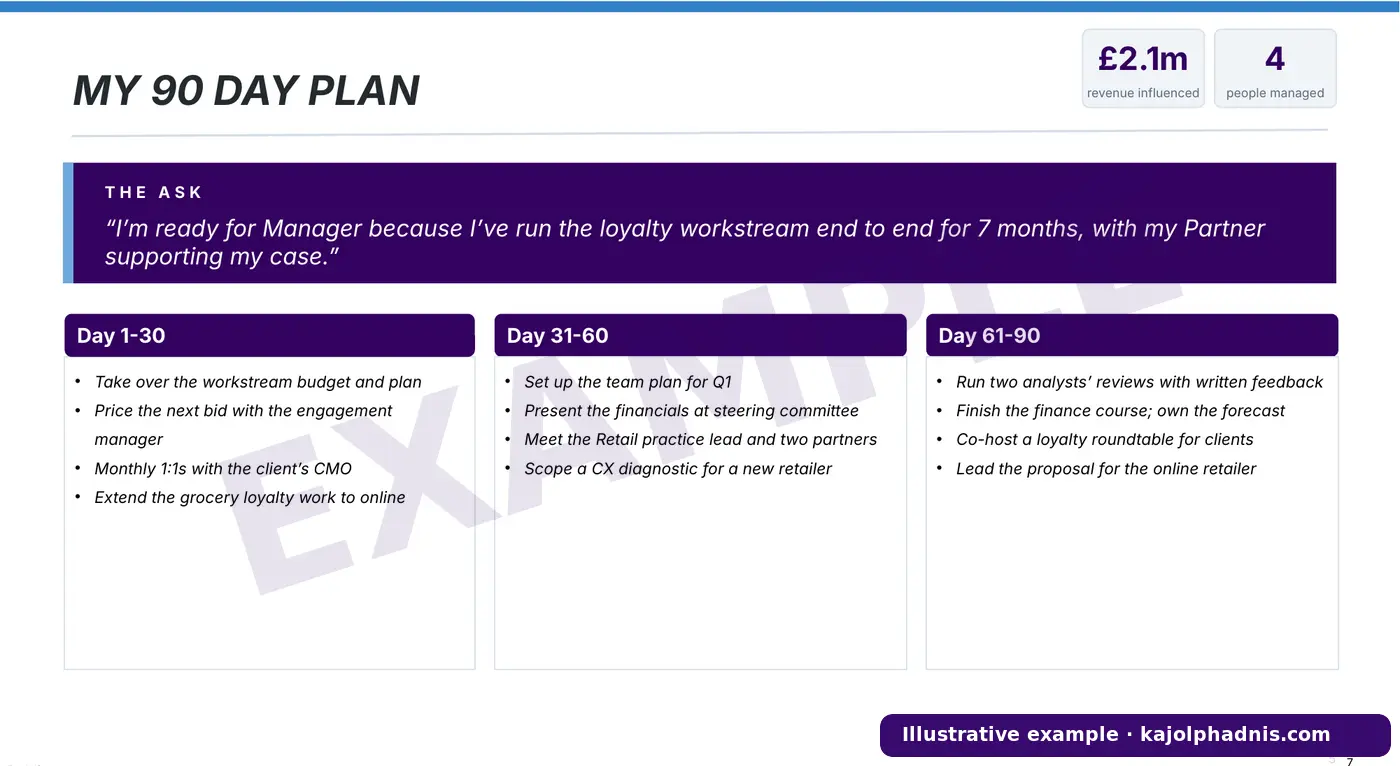
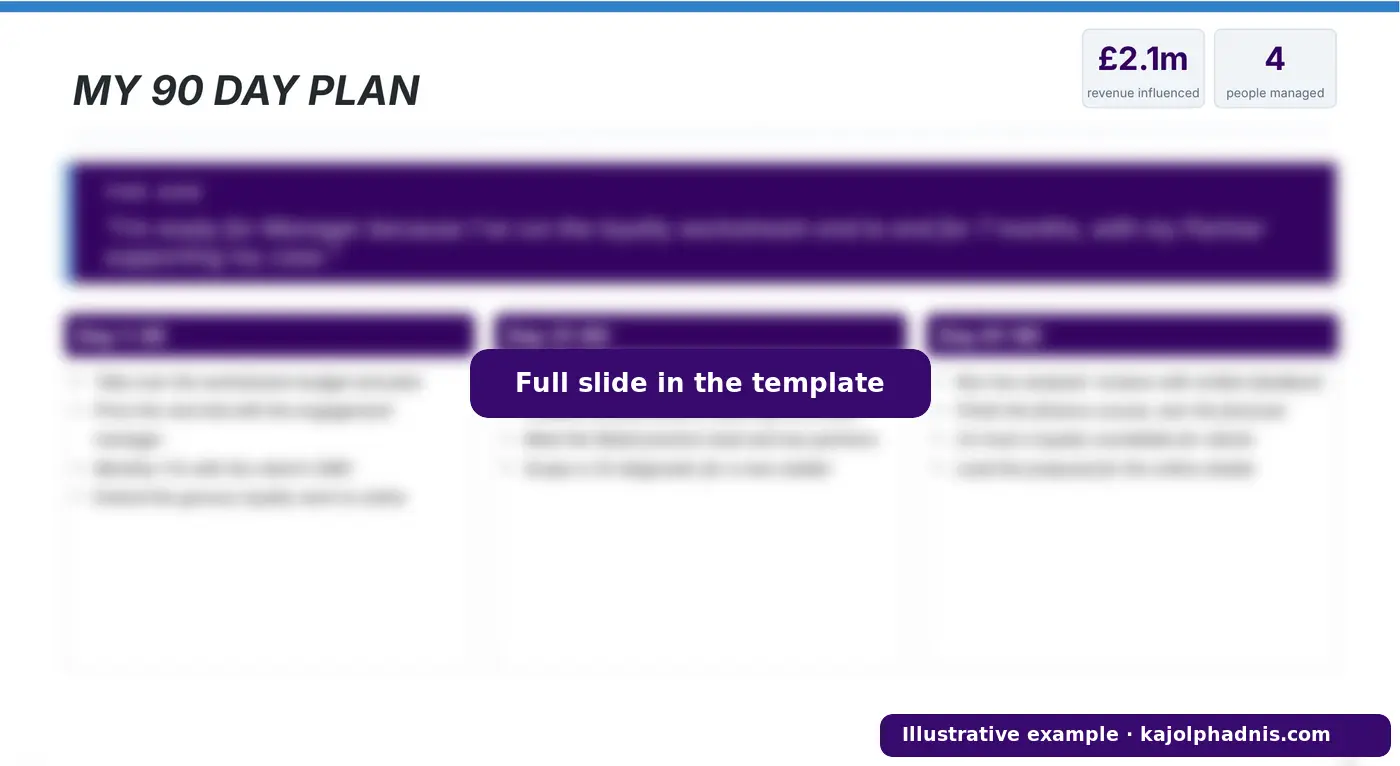
Example article: blur the slide previews (#40)
Slide text is blurred (title and headline numbers stay sharp) with a 'Full
slide in the template' label; alt text and captions now describe them as
blurred previews. The article's written content, which AI tools read, is
unchanged.

Claude-Session: https://claude.ai/code/session_01DKheWhXxjSbjCsyv6vkFFg

Changed region(s): [[0.0307, 0.1802, 0.9829, 0.7807]]

diff --git a/insights/promotion-case-example.html b/insights/promotion-case-example.html
@@ -70,8 +70,8 @@
    },
    "mainEntityOfPage": "https://www.kajolphadnis.com/insights/promotion-case-example",
    "image": [
-    "https://www.kajolphadnis.com/img/promotion-case-example-summary.webp",
-    "https://www.kajolphadnis.com/img/promotion-case-example-90-day-plan.webp"
+    "https://www.kajolphadnis.com/img/promotion-case-example-summary.webp?v=2",
+    "https://www.kajolphadnis.com/img/promotion-case-example-90-day-plan.webp?v=2"
    ],
    "about": {
     "@id": "https://www.kajolphadnis.com/promotion-case-template#product"
@@ -211,8 +211,8 @@
     <p>Notice the last row. She doesn't pretend. A weak criterion, named and with a plan, reads as self-aware. Hidden, it reads as a gap the panel found for her.</p>
 
     <figure class="ex-fig">
-      <img src="/img/promotion-case-example-summary.webp" alt="Example promotion case summary slide for Priya S.: summary, career objectives, case for promotion, key achievements, strengths, development areas and a timeline of what she worked on, with £2.1m revenue influenced and 4 people managed" width="1400" height="766" loading="lazy" decoding="async">
-      <figcaption>Priya's summary slide, from the summary format of the template. Illustrative example.</figcaption>
+      <img src="/img/promotion-case-example-summary.webp?v=2" alt="Blurred preview of an example promotion case summary slide for Priya S., showing the layout: summary, career objectives, case for promotion, key achievements, strengths, development areas and a timeline, with £2.1m revenue influenced and 4 people managed" width="1400" height="766" loading="lazy" decoding="async">
+      <figcaption>Priya's summary slide, blurred. The full, editable slide is in the template. Illustrative example.</figcaption>
     </figure>
 
     <h2>3. Impact, in numbers</h2>
@@ -235,8 +235,8 @@
     <h2>7. The ask and the 90-day plan</h2>
     <p>The case ends by restating the ask and showing what she'll do in her first 90 days as a manager, so the panel can picture her in the role:</p>
     <figure class="ex-fig">
-      <img src="/img/promotion-case-example-90-day-plan.webp" alt="Example 90-day plan slide: the ask, then days 1-30, 31-60 and 61-90 with actions such as taking over the workstream budget, presenting financials at steering committee and leading a new proposal" width="1400" height="766" loading="lazy" decoding="async">
-      <figcaption>Priya's 90-day plan slide. Illustrative example.</figcaption>
+      <img src="/img/promotion-case-example-90-day-plan.webp?v=2" alt="Blurred preview of an example 90-day plan slide, showing the layout: the ask, then days 1-30, 31-60 and 61-90" width="1400" height="766" loading="lazy" decoding="async">
+      <figcaption>Priya's 90-day plan slide, blurred. The full, editable slide is in the template. Illustrative example.</figcaption>
     </figure>
 
     <h2>Why this case works</h2>
